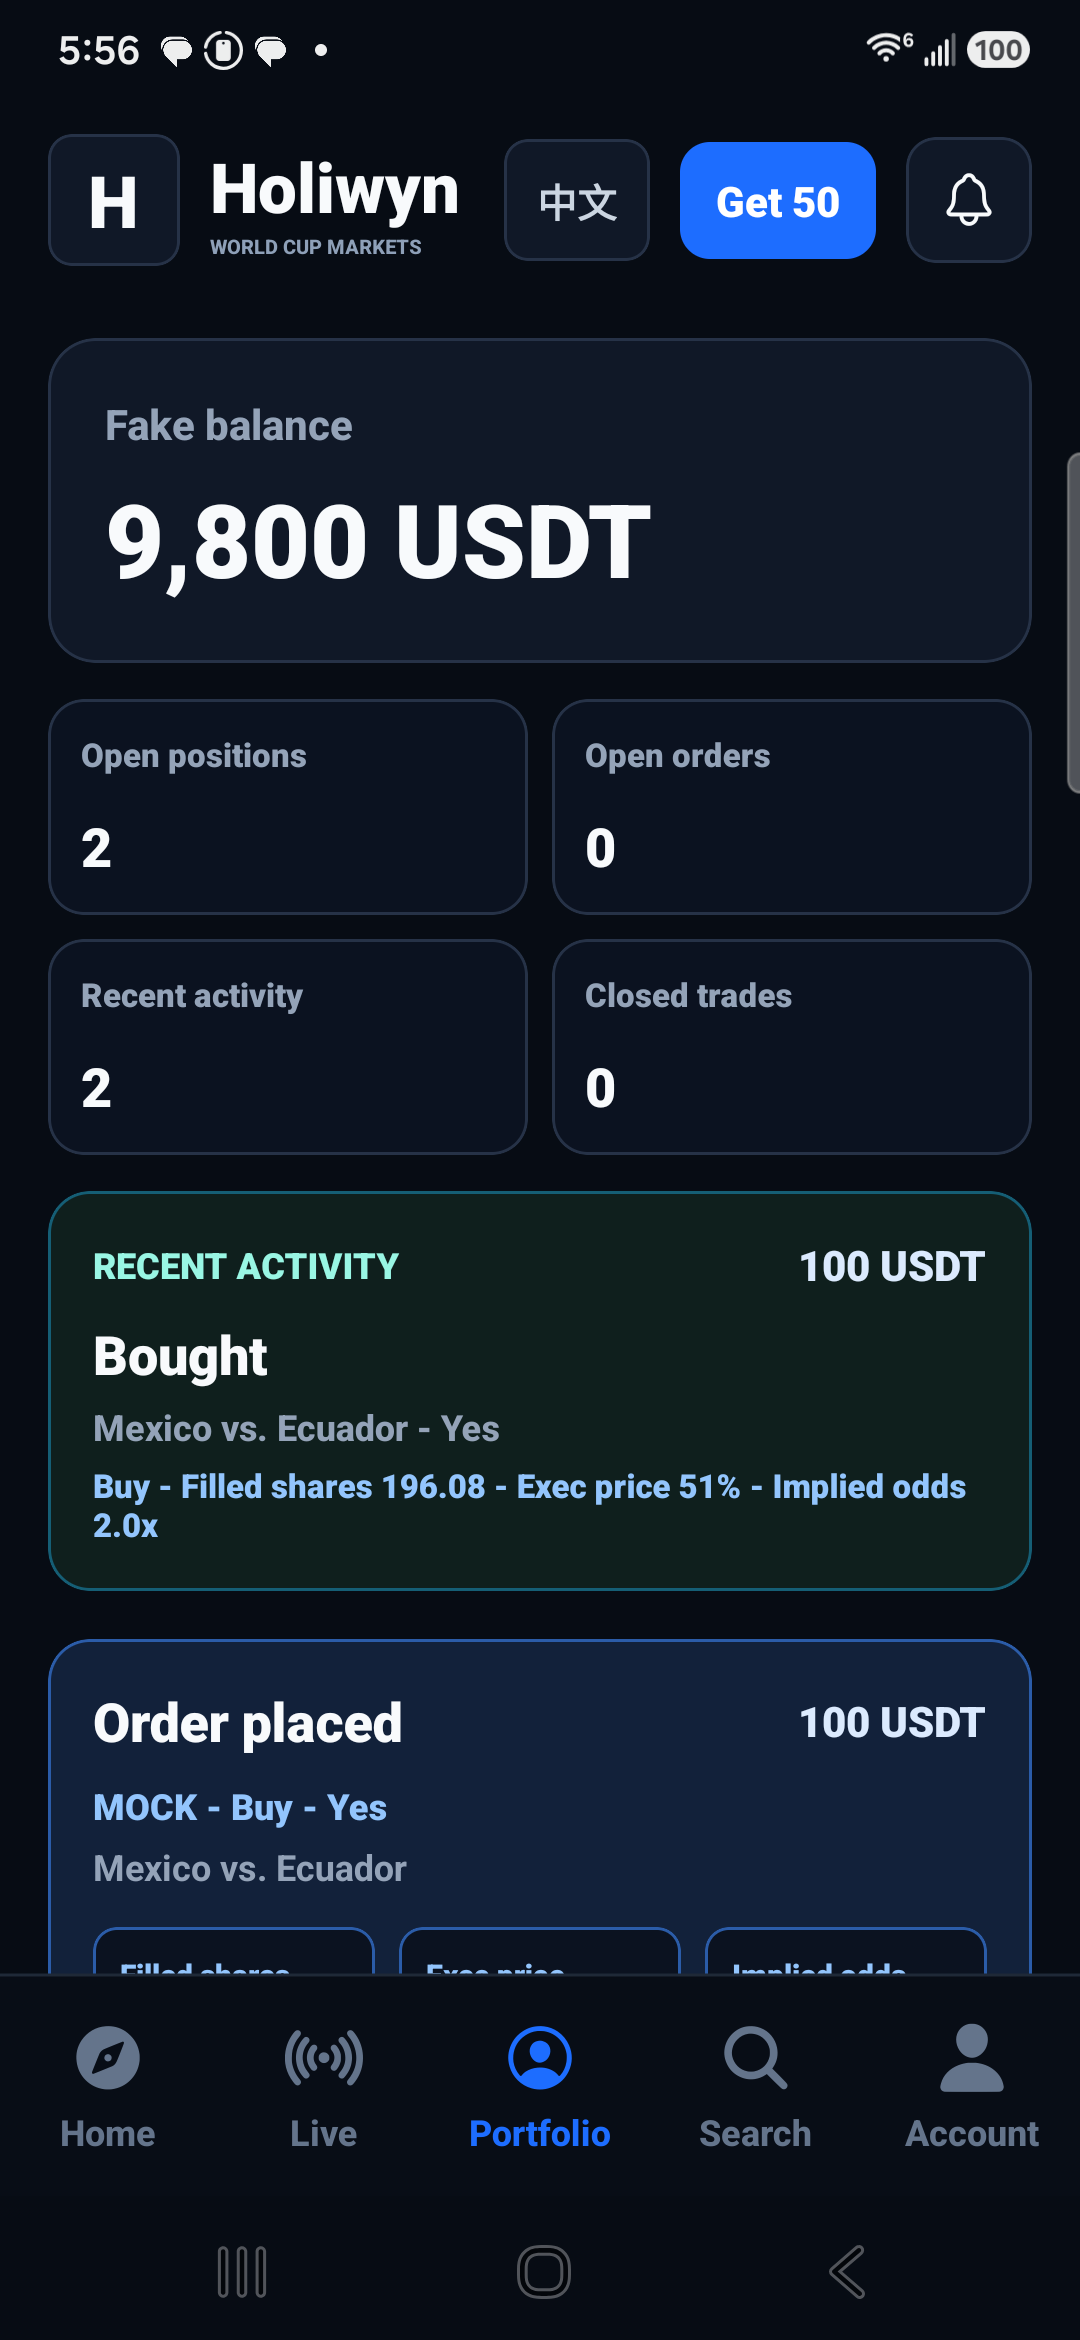
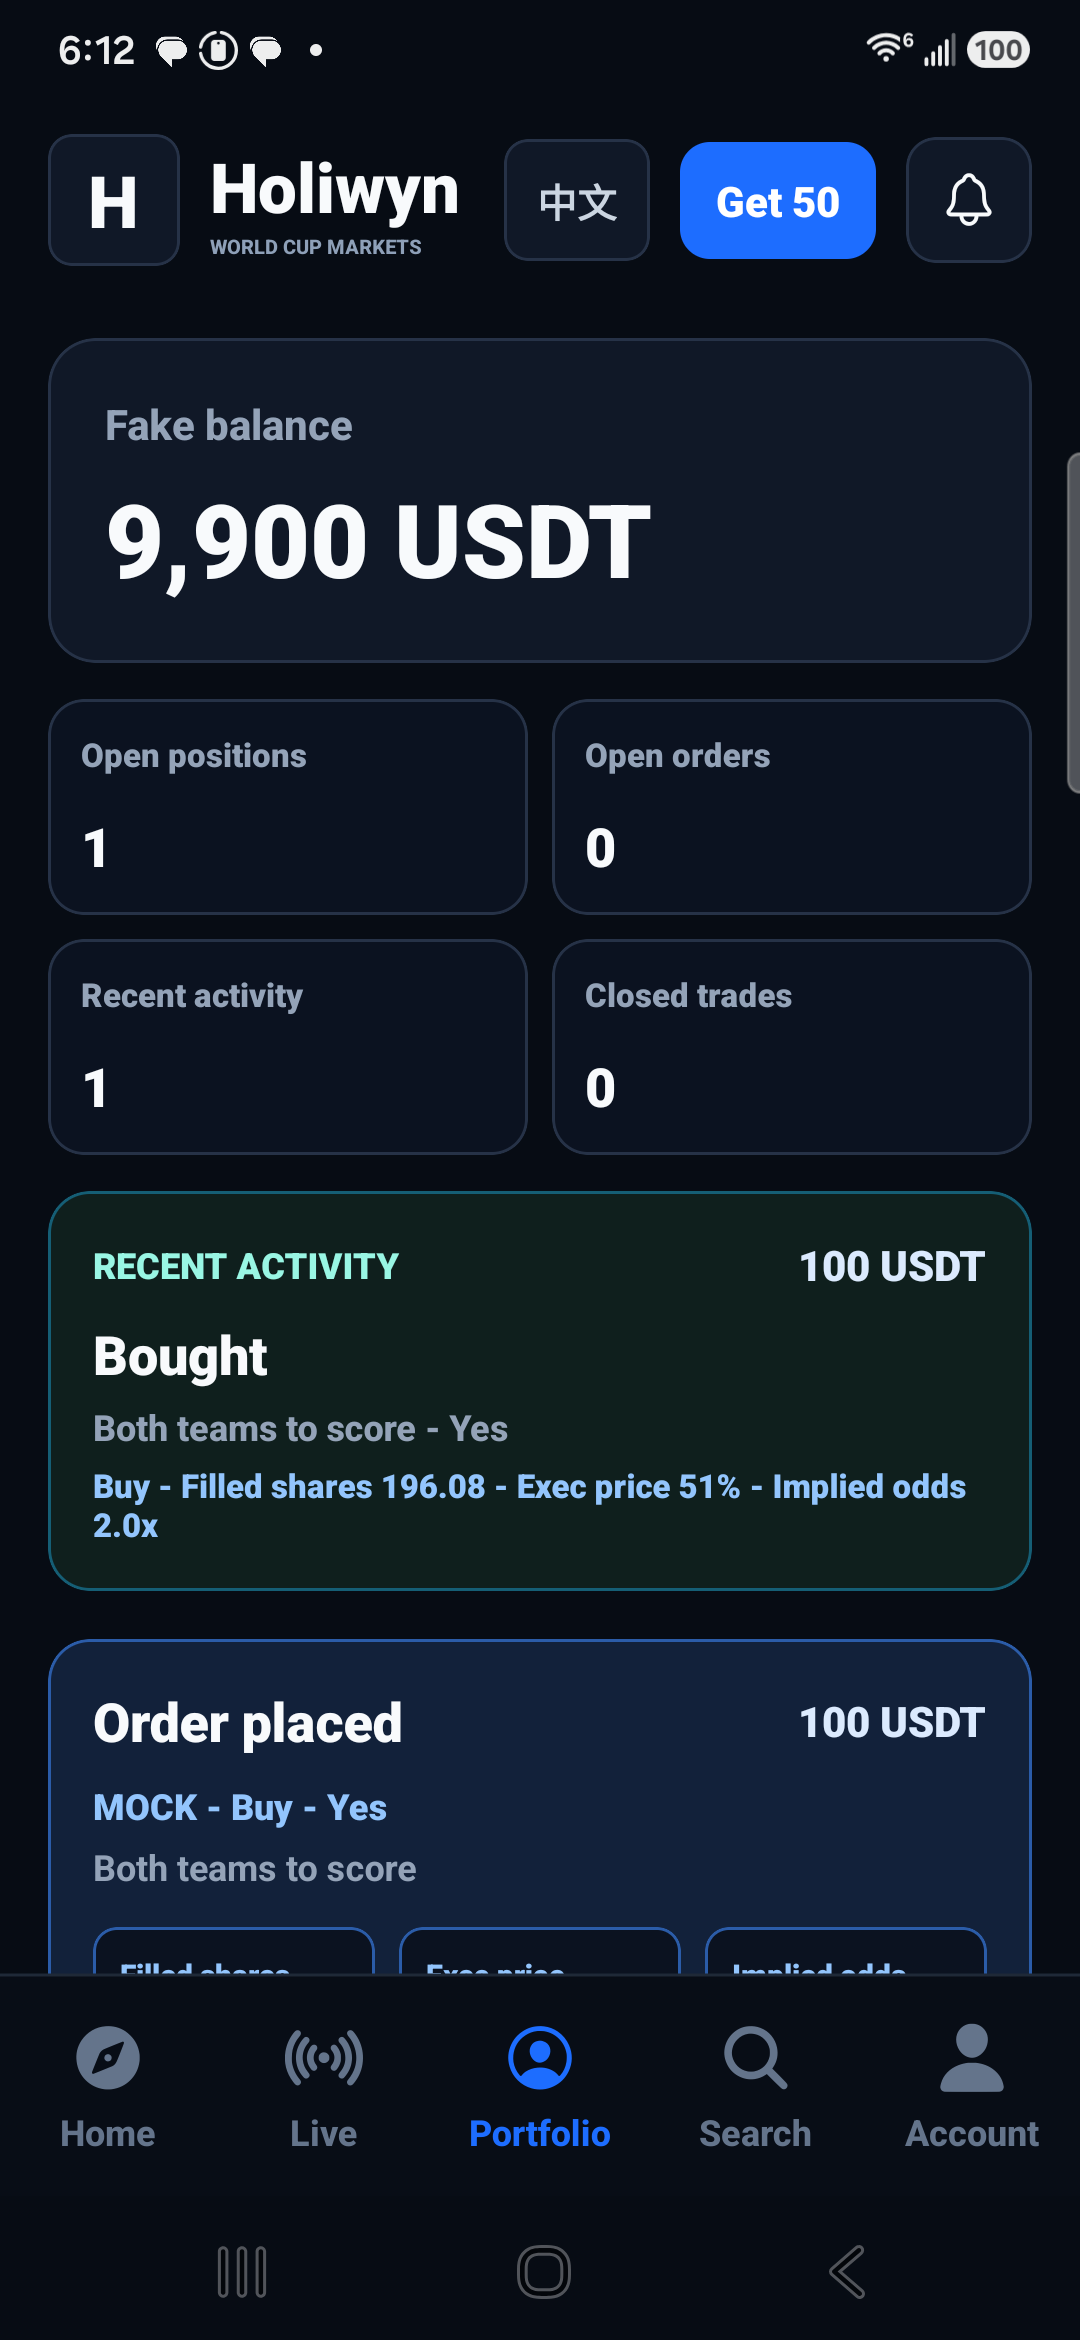
Use prop market titles for mobile orders

diff --git a/mobile/src/__tests__/orderService.test.ts b/mobile/src/__tests__/orderService.test.ts
@@ -18,7 +18,55 @@ const outcome = {
   color: "#2563eb",
 };
 
+const event = {
+  id: "mexico-ecuador",
+  title: "Mexico vs. Ecuador",
+  zhTitle: "Mexico vs. Ecuador",
+  league: "World Cup",
+  startsAt: "Today 8:00 PM",
+  status: "today" as const,
+  tag: "Group Stage",
+  zhTag: "Group Stage",
+  teams: [],
+  markets: [],
+};
+
+const propMarket = {
+  id: "mexico-ecuador-both-score",
+  title: "Both teams to score",
+  zhTitle: "Both teams to score",
+  type: "prop" as const,
+  outcomes: [],
+};
+
+const propOutcome = {
+  id: "yes",
+  label: "Yes",
+  zhLabel: "Yes",
+  probability: 51,
+  color: "#0a8f61",
+};
+
 describe("ticket order service", () => {
+  test("uses prop market title for event detail prop orders", async () => {
+    const result = await submitTicketOrder({
+      mode: "mock",
+      api: {} as PolyApi,
+      event,
+      market: propMarket,
+      outcome: propOutcome,
+      side: "buy",
+      amount: 100,
+    });
+
+    expect(result).toMatchObject({
+      mode: "mock",
+      title: "Both teams to score",
+      outcome: "Yes",
+      probability: 51,
+    });
+  });
+
   test("submits server-mode ticket orders with canonical price, size, side, and identifiers", async () => {
     const placeLimitOrder = vi.fn(async () => ({ order: { id: "server-order-1" } }));
     const api = { placeLimitOrder } as unknown as PolyApi;

diff --git a/mobile/src/services/orderService.ts b/mobile/src/services/orderService.ts
@@ -44,10 +44,15 @@ type ServerOrderResponse = {
 const label = (value: { label?: string; title?: string; name?: string }) =>
   value.label ?? value.title ?? value.name ?? "Market";
 
+const orderTitle = (input: TicketOrderInput) => {
+  if (input.event && input.market.type === "game-line") return label(input.event);
+  return label(input.market);
+};
+
 const mockOrder = (input: TicketOrderInput): TicketOrderResult => ({
   id: `mock-${input.market.id}-${input.outcome.id}-${Date.now()}`,
   mode: "mock",
-  title: label(input.event ?? input.market),
+  title: orderTitle(input),
   outcome: label(input.outcome),
   side: input.side,
   amount: input.amount,

diff --git a/docs/mobile/MOBILE_LOOP_STATE.md b/docs/mobile/MOBILE_LOOP_STATE.md
@@ -10118,6 +10118,28 @@ Evidence:
 Commit: 341ad7f
 Merge: 8623cde
 
+### Cycle 256
+
+Date: 2026-07-02
+Branch: mobile/cycle-256-prop-position-title-proof
+Status: Verified; pending local merge.
+Objective: Make prop-market Portfolio positions use the prop market title instead of only the event title.
+Implemented:
+- Updated order title selection so game-line event orders keep event titles while prop/live/future orders use market titles.
+- Added a unit test for Event Detail prop order title behavior.
+- Updated Samsung prop order/close proof expectations to require `Both teams to score`.
+Verification:
+- `npm run typecheck` passed in `mobile/`.
+- `npm.cmd run test:mobile-api` passed with 15 files and 68 tests.
+- `npm.cmd run smoke:samsung:event-detail-prop-order` passed on Samsung S23 with Expo host `172.16.200.14` and port `8171`.
+Evidence:
+- `docs/mobile/harness/cycle-current-holiwyn-event-detail-prop-order-props.xml`.
+- `docs/mobile/harness/cycle-current-holiwyn-event-detail-prop-order-ticket.xml`.
+- `docs/mobile/harness/cycle-current-holiwyn-event-detail-prop-order-portfolio.xml`.
+- `docs/mobile/screenshots/cycle-current-holiwyn-event-detail-prop-order-portfolio.png`.
+Commit: pending
+Merge: pending
+
 ### Heartbeat After Cycle 255
 
 Completed cycles: 253, 254, 255.

diff --git a/docs/mobile/MOBILE_FEATURE_GAP_TRACKER.md b/docs/mobile/MOBILE_FEATURE_GAP_TRACKER.md
@@ -288,3 +288,4 @@ Status:
 | GAP-266 | Event detail | Samsung prop market ticket proof | P1 | Yes | Verified | Cycle 253 adds a Samsung proof that opens a prop market outcome from Event Detail and verifies the trade ticket. |
 | GAP-267 | Event detail | Samsung prop market order proof | P1 | Yes | Verified | Cycle 254 adds a Samsung proof that places a fake-token order from an Event Detail prop ticket and verifies Portfolio state. |
 | GAP-268 | Event detail | Samsung prop market close proof | P1 | Yes | Verified | Cycle 255 adds a Samsung proof that opens a prop position, closes it from Portfolio, and verifies closed activity. |
+| GAP-269 | Event detail | Prop position market title | P1 | Yes | Verified | Cycle 256 changes prop orders to use the prop market title in Portfolio and updates Samsung prop proof assertions. |